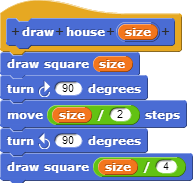
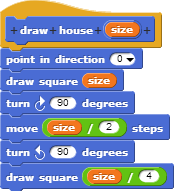
making draw-house when buggy more clearly worded, and adding snap project

diff --git a/cur/programming/functions/intro/buggy-house-and-square.html b/cur/programming/functions/intro/buggy-house-and-square.html
@@ -96,41 +96,47 @@
         responseIdentifier="resp1" shuffle="true" >
             <div class="prompt">
                 <p>
-                    Consider the following block definition to draw a house
+                    Consider the following block definition to draw a house; it uses a <b>correct</b><tt>draw square</tt> block, it will draw a house (with a flat roof)
+                    and a door at the lower right:
                 </p>
-    <img class="indent" src="/bjc-r/img/drawing/draw-house-code.png" alt="draw-house block definition">
-    <p>If it uses a <b>correct</b> <tt>draw square</tt> block, it will draw a house (with a flat roof)
-        and a door at the lower right:
-        </p>
-        <img class="indent" src="/bjc-r/img/drawing/draw-house-picture-correct.png" alt="draw-house picture">
-        <p>What will be drawn if it uses the <b>buggy</b> <tt>draw square</tt> code above?</p>
+                <div class="indent">
+                    <a class="run" href="/bjc-r/prog/drawing/draw-house-buggy.xml"> <img class="inline" src="/bjc-r/img/drawing/draw-house-code.png" alt="draw-house block definition using proper draw-square"> </a>
+                    <img class="inline" src="/bjc-r/img/drawing/draw-house-picture-correct.png" alt="draw-house picture">
+                </div>
+
+                <p>
+                    What will be drawn if it uses the <b>buggy</b><tt>draw square</tt> code above?
+                </p>
+                <div class="indent">
+                    <a class="run" href="/bjc-r/prog/drawing/draw-house-buggy.xml"> <img  src="/bjc-r/img/drawing/draw-house-code-buggy.png" alt="draw-house block definition using buggy draw-square"> </a>
+                </div>
             </div>
             <div class="choice" identifier="c1">
                 <div class="text">
-                     <img class="inline" src="/bjc-r/img/drawing/draw-house-picture-correct.png" alt="draw-house picture correct">
-                        (The correct picture)
+                    <img class="inline" src="/bjc-r/img/drawing/draw-house-picture-correct.png" alt="draw-house picture correct">
+                    (The correct picture)
 
                 </div>
                 <div class="feedback">
-                    No.  The bug definitely has an effect when the two squares are composed.  
+                    No.  The bug definitely has an effect when the two squares are composed.
                     By using a buggy block, <tt>draw house</tt> becomes buggy itself!
                 </div>
             </div>
             <div class="choice" identifier="c2">
                 <div class="text">
-                    Because <tt>draw square</tt> is buggy, there is no way to predict what 
+                    Because <tt>draw square</tt> is buggy, there is no way to predict what
                     the picture will look like.
                 </div>
                 <div class="feedback">
                     Incorrect.  This buggy program, like most buggy programs, will predicably do the same <b>wrong</b>
-                    thing every time it is run.  Carefully "run" the program block by block in your head. 
+                    thing every time it is run.  Carefully "run" the program block by block in your head.
                 </div>
             </div>
 
             <div class="choice" identifier="c3">
                 <div class="text">
                     <img class="inline" src="/bjc-r/img/drawing/draw-house-picture-buggy1.png" alt="draw-house picture upside down">
-                        (Flipped over)
+                    (Flipped over)
 
                 </div>
                 <div class="feedback">
@@ -141,15 +147,13 @@
 
             <div class="choice" identifier="c4">
                 <div class="text">
-              <img class="inline" src="/bjc-r/img/drawing/draw-house-picture-buggy2.png" alt="draw-house picture upside down">
+                    <img class="inline" src="/bjc-r/img/drawing/draw-house-picture-buggy2.png" alt="draw-house picture upside down">
 
                 </div>
                 <div class="feedback">
-                   Right!  
+                    Right!
                 </div>
             </div>
-
-
 
             <div class="responseDeclaration" identifier="resp1">
                 <div class="correctResponse" identifier="c4"></div>
